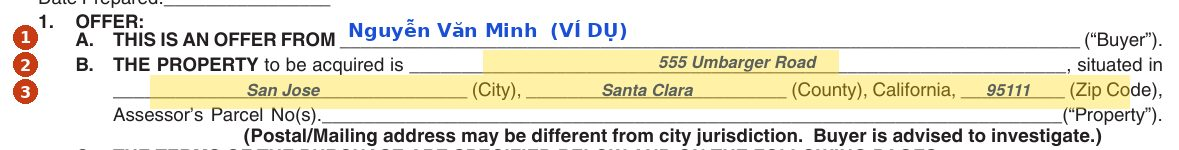
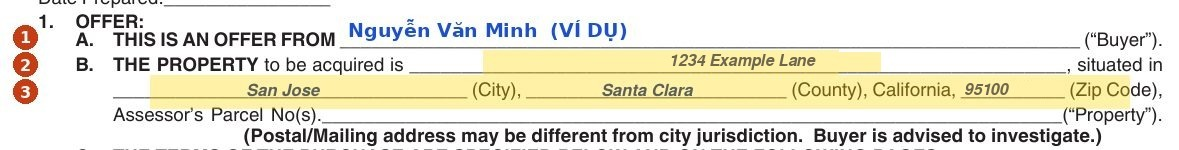
T401: thay địa chỉ thật bằng địa chỉ giả (1234 Example Lane, 95100)
Claude-Session: https://claude.ai/code/session_01FP3tJsAP761p1QCApMkqWh

Changed region(s): [[0.2748, 0.1333, 0.5496, 0.2667], [0.5496, 0.3467, 0.7634, 0.5067], [0.7939, 0.5333, 0.8855, 0.64]]

diff --git a/t401/index.html b/t401/index.html
@@ -192,8 +192,8 @@ var S=[
   '<div class="warn"><b>Một câu nhớ suốt đời</b>Trong hợp đồng này, “Days” là <b>ngày lịch</b>, tính luôn thứ Bảy, Chủ nhật. Chỉ riêng tiền cọc tính bằng <b>ngày làm việc</b>.</div>';}},
  {chip:"Ai mua, nhà nào",img:"s01.jpg",ref:"Trang 1 · Đoạn 1",q:"Ai mua? Mua căn nào?",
   pins:function(x){return [["Tên người mua","Ghi đúng tên sẽ đứng trên giấy nhà. Vợ chồng cùng đứng tên thì ghi cả hai. Mua bằng trust hay LLC thì ghi tên trust, LLC."],
-   ["Địa chỉ nhà","Ở form này đã điền sẵn: 555 Umbarger Road. Ken điền bằng chương trình làm hợp đồng (Glide) nên chữ nghiêng màu xanh nhạt."],
-   ["Thành phố, county, zip, số thửa (APN)","San Jose · Santa Clara · 95111. Số APN là số thửa đất của county, coi trên giấy thuế nhà. Form dặn: địa chỉ bưu điện có thể khác thành phố quản lý thật."]];},
+   ["Địa chỉ nhà","Ở form này đã điền sẵn: 1234 Example Lane (địa chỉ giả để làm ví dụ). Ken điền bằng chương trình làm hợp đồng (Glide) nên chữ nghiêng màu xanh nhạt."],
+   ["Thành phố, county, zip, số thửa (APN)","San Jose · Santa Clara · 95100 (zip giả). Số APN là số thửa đất của county, coi trên giấy thuế nhà. Form dặn: địa chỉ bưu điện có thể khác thành phố quản lý thật."]];},
   life:"Như ghi tên lên vé máy bay. Sai một chữ là ra sân bay bị rắc rối.",
   warn:"Đừng thêm hay bớt người đứng tên sau khi ký mà không làm giấy. Muốn đổi phải dùng form AOAA."},
  {chip:"Agent",img:"s02.jpg",ref:"Trang 1 · Đoạn 2",q:"Agent làm cho ai?",
